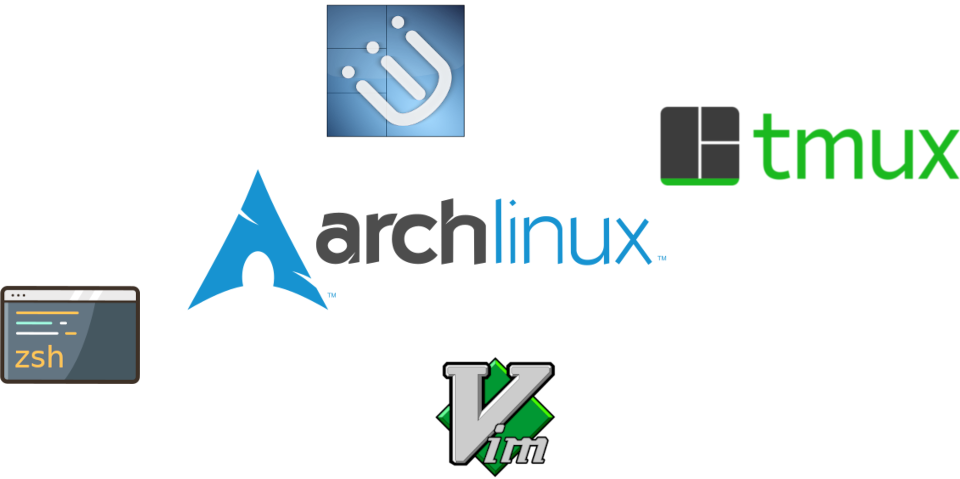
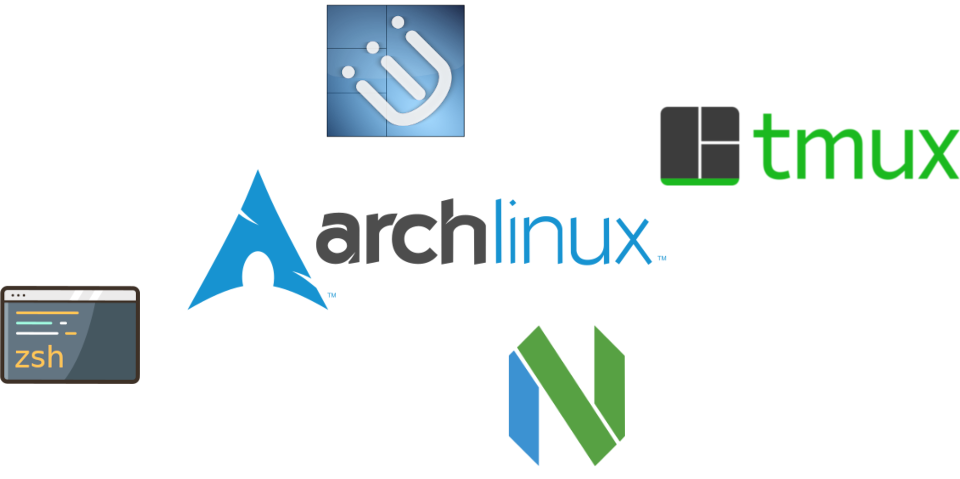
Fix images / improve the css a bit (margin for sections to have more negative space)

Changed region(s): [[0.4375, 0.6722, 0.6562, 0.9937]]

diff --git a/layouts/index.html b/layouts/index.html
@@ -70,14 +70,14 @@
         <div class="block">
             <p>Your Mouseless Development Environment will include these tools:</p>
             <ul>
-                <li>The Mighty <strong>Arch Linux</strong></li>
-                <li>The Powerful <strong>Zsh</strong></li>
-                <li>The Brave <strong>i3 Windows Manager</strong></li>
-                <li>The Skilled <strong>tmux</strong></li>
-                <li>The Uncomparable <strong>Vim</strong></li>
+                <li><strong><a href="https://www.archlinux.org/" target="_blank" title="Arch Linux">Arch Linux</a></strong></li>
+                <li><strong><a href="http://zsh.sourceforge.net/" target="_blank" title="Zsh">Zsh</a></strong></li>
+                <li><strong><a href="https://i3wm.org/" target="_blank" title="i3wm">i3 window manager</a></strong></li>
+                <li><strong><a href="https://github.com/tmux/tmux/wiki" target="_blank" title="tmux">tmux</a></strong></li>
+                <li><strong><a href="https://neovim.io/" target="_blank" title="Neovim">Neovim</a></strong></li>
             </ul>
             <p>You don't like some of them? No problem! You can replace Vim by your IDE, or Arch Linux by Ubuntu. <strong>I show you the "how" and you decide the "what".</strong></p>
-            <p>A mouseless environment is often centered around the Linux Shell. If you don't use a terminal often, that's fine too. You'll learn step by step.</p>
+            <p>A mouseless environment is often centered around the Linux shell. If you don't use a shell often, that's fine too. You'll learn step by step.</p>
             <div>
     </section>
 

diff --git a/assets/scss/_home.scss b/assets/scss/_home.scss
@@ -18,7 +18,7 @@
     }
 
     section {
-        margin: 1.5em 3rem;
+        margin: 1.5em 0 5em;
         @media #{$media-size-phone} {
             margin: 1.5rem;
         }
@@ -111,7 +111,7 @@
             @media #{$media-size-tablet} {
                 width:75%;
             }
-            
+
             @media #{$media-size-phone} {
                 width:100%;
             }
